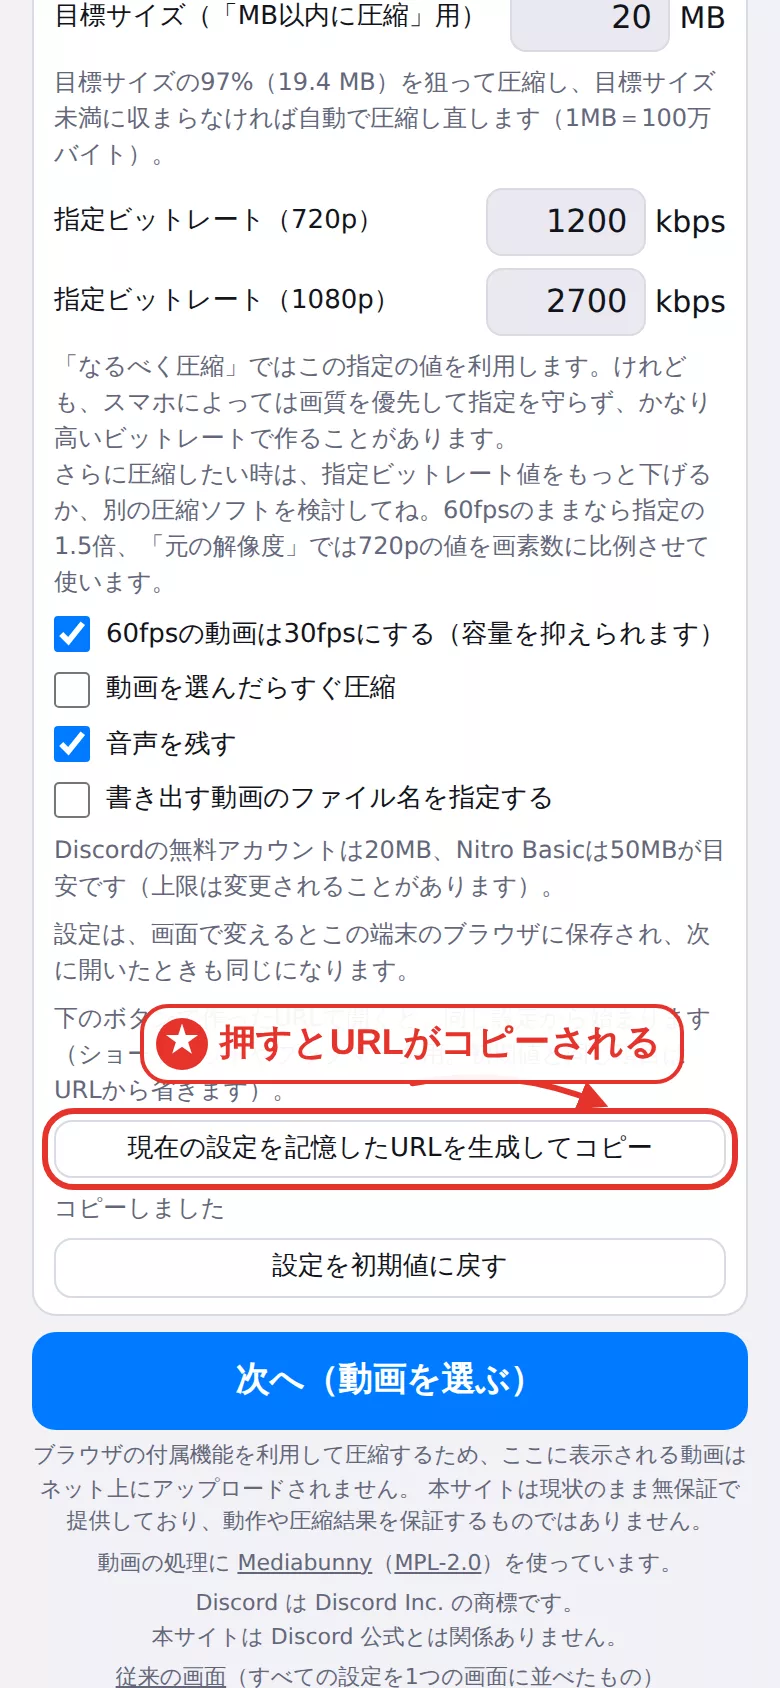
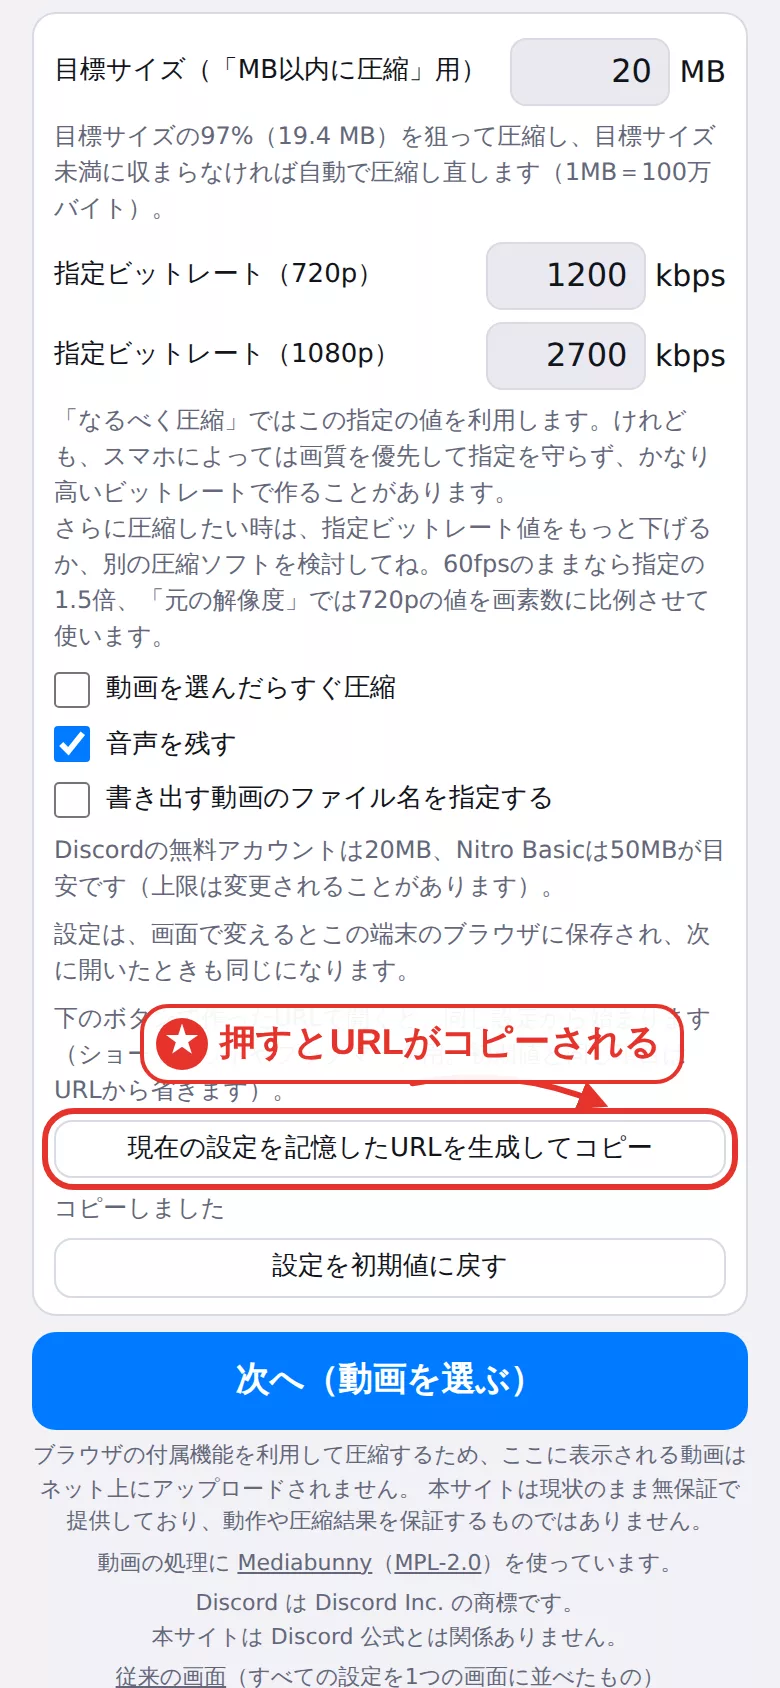
Settings step: same switches as step 2, plus 元の解像度 everywhere
- The 詳しく設定する step now shows resolution (480p / 720p / 1080p /
  元の解像度, always all four), fps (30 / 60, replacing the hidden
  "60fps→30fps" checkbox) and mode, the same parts as step 2's menu.
  They are saved like before; 480p is saved as-is and read as 720p on
  the old page.
- Step 2's menu gains 元の解像度.
- Tests, shortcut-page image and README updated.

Claude-Session: https://claude.ai/code/session_01Kjx2uZRnB9w1XNEyRL87P8

Changed region(s): [[0.0615, 0.0, 0.9231, 0.4005]]

diff --git a/public/app.js b/public/app.js
@@ -57,7 +57,7 @@
   var KEYFRAME_INTERVAL = 2;             // 秒
   var MIN_TRIM_LENGTH = 0.5;             // 秒
   var AUDIO_DECODE_MAX_BYTES = 400 * MB;   // 互換モードで音声を扱うファイルサイズの上限
-  var APP_VERSION = '2026-10-02p';        // 診断情報に出す（どの版で起きたかを見分ける）
+  var APP_VERSION = '2026-10-02q';        // 診断情報に出す（どの版で起きたかを見分ける）
   var CANCELLED = 'cancelled';
   var SNAPSHOT_MAX_BYTES = 600 * MB;     // Android で動画をブラウザ内に写し取る上限（これより大きい動画は写さない）
   var STALLED = 'stalled';
@@ -93,7 +93,7 @@
     srcVideo: $('srcVideo'), srcInfo: $('srcInfo'), srcBox: $('srcBox'), outBox: $('outBox'),
     trimStart: $('trimStart'), trimEnd: $('trimEnd'), trimFill: $('trimFill'), trimBox: $('trimBox'), quickNote: $('quickNote'), quickNoteSize: $('quickNoteSize'), trimLabel: $('trimLabel'),
     trimTicks: $('trimTicks'), trimSeek: $('trimSeek'),
-    res720: $('res720'), res1080: $('res1080'), resSource: $('resSource'), resSeg: $('resSeg'), modeQuality: $('modeQuality'), modeSize: $('modeSize'),
+    res480: $('res480'), res720: $('res720'), res1080: $('res1080'), resSource: $('resSource'), resSeg: $('resSeg'), modeQuality: $('modeQuality'), modeSize: $('modeSize'),
     sizeLabel: $('sizeLabel'), planInfo: $('planInfo'), planWarn: $('planWarn'),
     targetSize: $('targetSize'), halfFps: $('halfFps'), audioOn: $('audioOn'), audioLabel: $('audioLabel'),
     minRate720: $('minRate720'), minRate1080: $('minRate1080'), autoRun: $('autoRun'), capLabel: $('capLabel'),
@@ -278,7 +278,8 @@
     if (!isFinite(v)) v = fallback;
     return Math.min(MIN_KBPS_LIMITS[1], Math.max(MIN_KBPS_LIMITS[0], Math.round(v)));
   }
-  function resValue(v) { return v === '1080' || v === 'source' ? v : '720'; }
+  // 480p は3ステップの画面だけで選べる（従来の画面では 720p として扱う）
+  function resValue(v) { return v === '1080' || v === 'source' || (v === '480' && !!els.res480) ? v : '720'; }
 
   // 「元の解像度」は、720p・1080p 以外で720pより大きい動画（スマホの画面録画など）のときだけ出す
   // （720p以下の動画は、どれを選んでも元の大きさのままなので出さない）。
@@ -294,6 +295,11 @@
   var want1080 = false;
   function isSmallSource(meta) { return !!meta && Math.min(meta.width, meta.height) <= 720 + 8; }
   function syncResOption() {
+    // 3ステップの画面は、4つ（480p・720p・1080p・元の解像度）をいつも出し、選んだものをそのまま使う（元より大きくはしない）
+    if (EASY) {
+      els.res1080.classList.toggle('is-locked', isSmallSource(state.meta));
+      return;
+    }
     var show = !!(state.meta && !isStandardRes(state.meta) && Math.min(state.meta.width, state.meta.height) > 720 + 8);
     els.resSeg.classList.toggle('is-three', show);
     var small = isSmallSource(state.meta);
@@ -525,10 +531,17 @@
   var SETTING_DEFS = [
     // 解像度（「元の解像度」を選んだことは wantSource で覚える。出せない動画のあいだは画面の選択は 720p・1080p のまま）
     {
-      key: 'res', url: 'res', def: '720', ids: ['res720', 'res1080', 'resSource'],
-      read: function () { return wantSource ? 'source' : want1080 ? '1080' : resValue(radioValue('res', '720')); },
+      key: 'res', url: 'res', def: '720', ids: ['res720', 'res1080', 'resSource'].concat($('res480') ? ['res480'] : []),
+      read: function () { return EASY ? resValue(radioValue('res', '720')) : wantSource ? 'source' : want1080 ? '1080' : resValue(radioValue('res', '720')); },
       write: function (v) {
         want1080 = false;
+        // 3ステップの画面は、選んだものをそのまま選ぶ
+        if (EASY) {
+          wantSource = false;
+          ({ '480': els.res480, '1080': els.res1080, source: els.resSource }[v] || els.res720).checked = true;
+          return;
+        }
+        if (v === '480') v = '720';
         if (v === '1080') { els.res1080.checked = true; wantSource = false; }
         else if (v === '720') { els.res720.checked = true; wantSource = false; }
         // 元の解像度：選択肢が出ない動画（720p・1080p など）のあいだは 1080p にしておく。
@@ -1014,7 +1027,14 @@
     [els.res720, els.res1080, els.resSource, els.modeQuality, els.modeSize, els.targetSize, els.halfFps, els.audioOn,
       els.minRate720, els.minRate1080, els.autoRun, els.nameOn, els.resetSettings].forEach(function (el) { el.disabled = state.running || done; });
     if (isSmallSource(state.meta)) els.res1080.disabled = true;   // 720p以下の動画は 1080p を選べない
-    if (easyResFixed()) [els.res720, els.res1080, els.resSource].forEach(function (el) { el.disabled = true; });
+    if (els.res480) els.res480.disabled = state.running || done;
+    if (easyResFixed()) [els.res480, els.res720, els.res1080, els.resSource].forEach(function (el) { el.disabled = true; });
+    // 設定のステップの fps（「60fpsの動画は30fpsにする」のチェックと同じ）
+    if ($('fpsSeg')) {
+      $('setFps30').checked = els.halfFps.checked;
+      $('setFps60').checked = !els.halfFps.checked;
+      $('setFps30').disabled = $('setFps60').disabled = state.running || done;
+    }
     Array.prototype.forEach.call(els.nameList.querySelectorAll('input, button'), function (el) {
       el.disabled = state.running || done || (el.dataset.move === 'up' && !el.parentNode.previousSibling) ||
         (el.dataset.move === 'down' && !el.parentNode.nextSibling);
@@ -3029,7 +3049,8 @@
   // ---------------------------------------------------------------- 3ステップの画面：2 の解像度・fps・圧縮方法（その動画だけ）
   // 720p・1080p ではない動画は、圧縮の仕方に関係なく元の解像度のまま（解像度は選べない）
   function easyResFixed() { return EASY && !!state.meta && !isStandardRes(state.meta); }
-  var ADJ_RES = ['480', '720', '1080'];
+  var ADJ_RES = ['480', '720', '1080', 'source'];
+  function adjResEl(r) { return $(r === 'source' ? 'adjResSource' : 'adjRes' + r); }
   function updateAdjust(enabled) {
     if (!$('adjBox')) return;
     var hasFile = !!(state.file && state.meta);
@@ -3038,11 +3059,14 @@
     if (hasFile) {
       var settings = readSettings();
       var short = Math.min(state.meta.width, state.meta.height);
-      // 解像度：今の解像度（元より大きくはしない）を選んだ状態にし、元より大きい解像度は選べなくする
-      var cur = settings.res === 'source' ? short : Math.min(Number(settings.res) || 720, short);
-      var pick = ADJ_RES.reduce(function (a, r) { return Math.abs(Number(r) - cur) < Math.abs(Number(a) - cur) ? r : a; }, '720');
+      // 解像度：今の解像度を選んだ状態にし（元の解像度はそのまま。それ以外は元より大きくはしないので、その大きさの段）、
+      // 元より大きい解像度は選べなくする
+      var pick = settings.res === 'source' ? 'source' : (function () {
+        var cur = Math.min(Number(settings.res) || 720, short);
+        return ['480', '720', '1080'].reduce(function (a, r) { return Math.abs(Number(r) - cur) < Math.abs(Number(a) - cur) ? r : a; }, '720');
+      })();
       ADJ_RES.forEach(function (r) {
-        var el = $('adjRes' + r), over = Number(r) > short + 8;
+        var el = adjResEl(r), over = r !== 'source' && Number(r) > short + 8;
         el.checked = r === pick;
         el.classList.toggle('is-locked', over && enabled);
         el.disabled = !enabled || over;
@@ -3076,7 +3100,7 @@
   function setupAdjust() {
     if (!$('adjBox')) return;
     ADJ_RES.forEach(function (r) {
-      $('adjRes' + r).addEventListener('change', function () {
+      adjResEl(r).addEventListener('change', function () {
         if (!adjustable()) return;
         adjust.res = r;
         logAdjust('解像度');
@@ -3233,11 +3257,19 @@
   });
 
   // 画面で解像度を選んだら、「元の解像度」を選んだかどうかを覚えておく
-  ['res720', 'res1080', 'resSource'].forEach(function (k) {
-    els[k].addEventListener('change', function () { wantSource = k === 'resSource'; want1080 = false; });
+  ['res480', 'res720', 'res1080', 'resSource'].forEach(function (k) {
+    if (els[k]) els[k].addEventListener('change', function () { wantSource = k === 'resSource'; want1080 = false; });
   });
-  ['res720', 'res1080', 'resSource', 'modeQuality', 'modeSize', 'halfFps', 'audioOn'].forEach(function (k) {
-    els[k].addEventListener('change', refresh);
+  ['res480', 'res720', 'res1080', 'resSource', 'modeQuality', 'modeSize', 'halfFps', 'audioOn'].forEach(function (k) {
+    if (els[k]) els[k].addEventListener('change', refresh);
+  });
+  // 設定のステップの fps：「60fpsの動画は30fpsにする」のチェックを変えたことにする（保存も同じ）
+  ['30', '60'].forEach(function (f) {
+    var el = $('setFps' + f);
+    if (el) el.addEventListener('change', function () {
+      els.halfFps.checked = f === '30';
+      els.halfFps.dispatchEvent(new Event('change', { bubbles: true }));
+    });
   });
   [els.minRate720, els.minRate1080].forEach(function (el) {
     el.addEventListener('input', refresh);

diff --git a/public/index.html b/public/index.html
@@ -57,17 +57,27 @@
     <h2 class="step-title" id="stepSetTitle">設定を決めてください</h2>
     <p class="step-lead">アプリの画面と同じ設定です。変えた設定は保存され、次に開いたときも同じになります。</p>
     <div class="segs">
-      <div class="seg" id="resSeg" role="radiogroup" aria-label="解像度">
+      <!-- 解像度・fps・圧縮方法は、2 の設定変更簡易メニューと同じ部品（こちらは保存する設定） -->
+      <div class="seg is-four" id="resSeg" role="radiogroup" aria-label="解像度">
+        <input type="radio" class="seg-input" name="res" id="res480" value="480">
+        <label class="seg-opt" for="res480">480p</label>
         <input type="radio" class="seg-input" name="res" id="res720" value="720" checked>
         <label class="seg-opt" for="res720">720p</label>
         <input type="radio" class="seg-input" name="res" id="res1080" value="1080">
         <label class="seg-opt" for="res1080">1080p</label>
-        <!-- 720p・1080p 以外の動画（スマホの画面録画など）のときだけ出す -->
         <input type="radio" class="seg-input" name="res" id="resSource" value="source">
         <label class="seg-opt seg-opt-source" for="resSource">元の解像度</label>
         <span class="seg-thumb" aria-hidden="true"></span>
       </div>
       <div id="resFixedNote" class="adj-note hidden"></div>
+      <!-- 「60fpsの動画は30fpsにする」（詳細設定のチェックは隠して、こちらで選ぶ） -->
+      <div class="seg" id="fpsSeg" role="radiogroup" aria-label="fps">
+        <input type="radio" class="seg-input" name="setFps" id="setFps30" value="30" checked>
+        <label class="seg-opt" for="setFps30">30fps</label>
+        <input type="radio" class="seg-input" name="setFps" id="setFps60" value="60">
+        <label class="seg-opt" for="setFps60">60fps</label>
+        <span class="seg-thumb" aria-hidden="true"></span>
+      </div>
       <div class="seg" role="radiogroup" aria-label="圧縮方法">
         <input type="radio" class="seg-input" name="mode" id="modeQuality" value="quality">
         <label class="seg-opt" for="modeQuality"><span>なるべく圧縮</span><span id="quickNote" class="seg-sub hidden"></span></label>
@@ -92,7 +102,7 @@
         <span><input id="minRate1080" type="number" inputmode="numeric" min="100" max="50000" step="100" value="2700"> kbps</span>
       </div>
       <p class="hint">「なるべく圧縮」ではこの指定の値を利用します。けれども、スマホによっては画質を優先して指定を守らず、かなり高いビットレートで作ることがあります。<br>さらに圧縮したい時は、指定ビットレート値をもっと下げるか、別の圧縮ソフトを検討してね。60fpsのままなら指定の1.5倍、「元の解像度」では720pの値を画素数に比例させて使います。</p>
-      <div class="check">
+      <div class="check hidden">
         <input type="checkbox" id="halfFps" checked>
         <label for="halfFps">60fpsの動画は30fpsにする（容量を抑えられます）</label>
       </div>
@@ -154,13 +164,15 @@
     <details class="adj-menu hidden" id="adjMenu">
     <summary>設定変更簡易メニュー</summary>
     <div class="segs adj" id="adjBox">
-      <div class="seg is-three" id="adjResSeg" role="radiogroup" aria-label="解像度">
+      <div class="seg is-four" id="adjResSeg" role="radiogroup" aria-label="解像度">
         <input type="radio" class="seg-input" name="adjRes" id="adjRes480" value="480">
         <label class="seg-opt" for="adjRes480">480p</label>
         <input type="radio" class="seg-input" name="adjRes" id="adjRes720" value="720" checked>
         <label class="seg-opt" for="adjRes720">720p</label>
         <input type="radio" class="seg-input" name="adjRes" id="adjRes1080" value="1080">
         <label class="seg-opt" for="adjRes1080">1080p</label>
+        <input type="radio" class="seg-input" name="adjRes" id="adjResSource" value="source">
+        <label class="seg-opt" for="adjResSource">元の解像度</label>
         <span class="seg-thumb" aria-hidden="true"></span>
       </div>
       <div class="seg" id="adjFpsSeg" role="radiogroup" aria-label="fps">

diff --git a/public/style.css b/public/style.css
@@ -474,6 +474,25 @@ header .btn-sm {
 .seg-input:nth-of-type(3):checked ~ .seg-thumb {
   transform: translateX(200%);
 }
+/* 4つの選択肢（3ステップの画面の解像度：480p・720p・1080p・元の解像度。元の解像度はいつも出す） */
+.seg.is-four {
+  grid-template-columns: repeat(4, 1fr);
+}
+.seg.is-four .seg-thumb {
+  width: calc(25% - 1.5px);
+}
+.seg.is-four .seg-opt-source {
+  display: flex;
+}
+.seg.is-four .seg-opt {
+  padding-left: 2px;
+  padding-right: 2px;
+  font-size: 15px;
+  white-space: nowrap;
+}
+.seg-input:nth-of-type(4):checked ~ .seg-thumb {
+  transform: translateX(300%);
+}
 .seg-input:checked + .seg-opt {
   color: var(--on-accent);
 }

diff --git a/public/sw.js b/public/sw.js
@@ -9,7 +9,7 @@
 'use strict';
 
 var CACHE_PREFIX = 'video-compressor-under20mb-';   // このアプリのキャッシュ名の頭（同じドメインの別アプリのキャッシュは消さない）
-var CACHE = CACHE_PREFIX + 'v197';
+var CACHE = CACHE_PREFIX + 'v198';
 var NETWORK_TIMEOUT_MS = 3000;   // ネット優先のとき、ネットの応答をこれだけ待ってからキャッシュを使う
 
 // Cloudflare Pages のプレビュー（<ブランチ名>.<プロジェクト名>.pages.dev）と手元の確認環境だけネット優先にする

diff --git a/README.md b/README.md
@@ -23,12 +23,14 @@
 1. **圧縮の仕方を選ぶ**（大きな2択と「詳しく設定する」）
    - **なるべく圧縮**：720p・30fps・指定ビットレートは初期値（1,200kbps）
    - **画質優先（20MB以内）**：元の画質とfpsのまま、20MBに収まるなるべく高いビットレート（指定ビットレートは初期値の2,700kbpsを下回らない）
-   - **詳しく設定する**：1 と 2 の間に「設定」のステップを足し、従来の画面と同じ設定（解像度・圧縮方法・詳細設定を開いたもの）を出す。
+   - **詳しく設定する**：1 と 2 の間に「設定」のステップを足し、従来の画面と同じ設定（解像度・fps・圧縮方法・詳細設定を開いたもの）を出す。
+     解像度（480p・720p・1080p・元の解像度。4つともいつも出す）・fps（30fps・60fps。「60fpsの動画は30fpsにする」の代わり）・圧縮方法は、2 の設定変更簡易メニューと同じ部品。
+     480p は3ステップの画面だけの設定（保存した 480p は、従来の画面では 720p として扱う）。
      設定は従来の画面と共通で、保存してある設定を使い、変えたら保存する。手順の帯も「選ぶ・設定・動画・保存」の4つにする
 2. **動画を選んでトリミング**：プレビュー・トリミング・予想を出し、「圧縮する」を目立たせる。
    トリミングの下の「**設定変更簡易メニュー**」で、**その動画だけ**解像度・fps・圧縮方法を変えられる（設定のステップと同じ見た目。動画を選ぶまでは出さない。変えると先行圧縮をやり直すことになるので、初めは閉じておく）。
    新しい動画を選ぶ・圧縮の仕方を選び直す・設定のステップで設定を変えると元に戻る（保存しない）
-   - 解像度：480p・720p・1080p（元の動画より大きい解像度は選べない。縦横比はそのまま、短い辺を480にする。480pの指定ビットレートは720pの値を画素数に比例させる（初期値で約533kbps））
+   - 解像度：480p・720p・1080p・元の解像度（元の動画より大きい解像度は選べない。縦横比はそのまま、短い辺を480にする。480pの指定ビットレートは720pの値を画素数に比例させる（初期値で約533kbps））
    - fps：30fps・60fps（60fpsなどの動画のときだけ選べる）
    - 圧縮方法：なるべく圧縮（指定ビットレート）・◯MB以内に圧縮（目標サイズに収まるなるべく高いビットレート）
    先行圧縮は、変えた設定でやり直す（先行圧縮の動きは従来の画面と同じ）。押せばすぐ出せるときは、「圧縮する」ボタンの2行目に「（◯MBで即出力します）」を出す（画質優先では、先行圧縮が20MBの95〜100%ならそのまま使う）。20MB以下の動画は「圧縮せずに、このまま共有・保存へ」で進める
